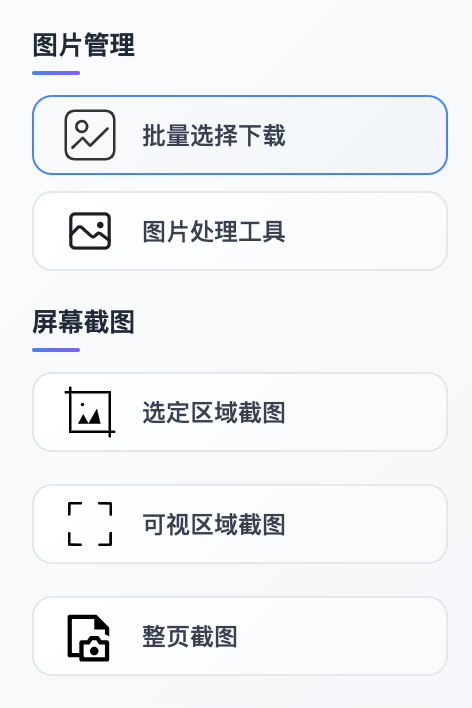
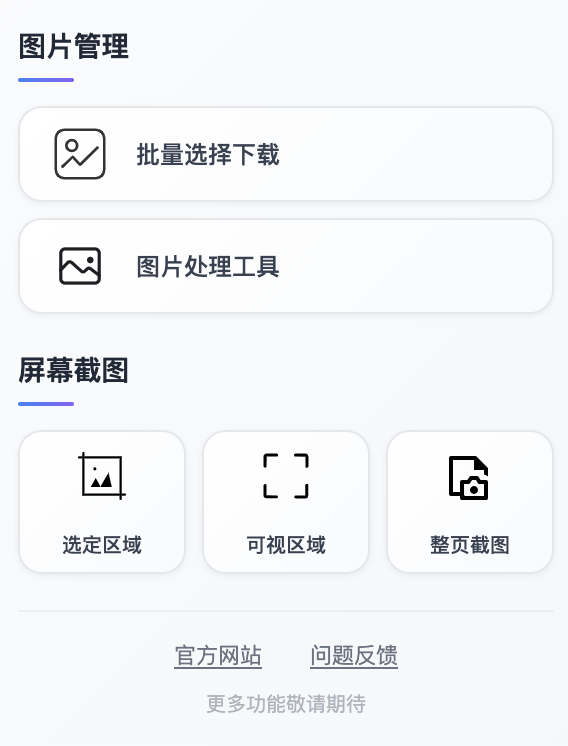
feat: 反馈地址补充

diff --git a/src/popup/index.tsx b/src/popup/index.tsx
@@ -41,7 +41,7 @@ function Popup() {
 
   const handleFeedback = () => {
     // @ts-expect-error - Chrome extension API
-    chrome.tabs.create({ url: 'https://github.com/process1024/almighty-image-extension/issues' });
+    chrome.tabs.create({ url: 'https://eip93iabdv.feishu.cn/wiki/ZEoxwTLw7ivucgkzetqcaCZsn2e?from=from_copylink' });
     window.close();
   };
 